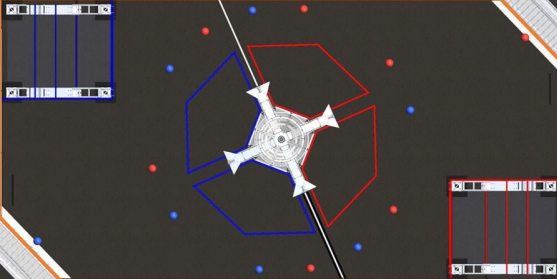
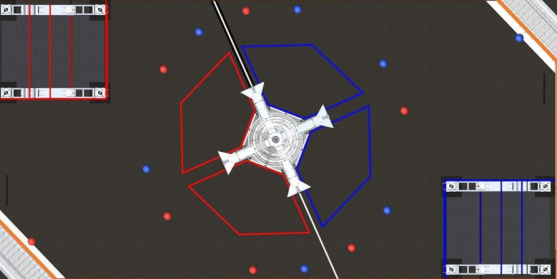
TurretFF WIP

diff --git a/src/main/java/frc/robot/subsystems/Vision.java b/src/main/java/frc/robot/subsystems/Vision.java
@@ -8,6 +8,7 @@ import static frc.robot.Constants.Vision.*;
 
 import edu.wpi.first.math.geometry.Pose2d;
 import edu.wpi.first.math.geometry.Rotation2d;
+import edu.wpi.first.math.geometry.Translation2d;
 import edu.wpi.first.math.util.Units;
 import edu.wpi.first.networktables.NetworkTable;
 import edu.wpi.first.networktables.NetworkTableInstance;
@@ -17,7 +18,6 @@ import edu.wpi.first.wpilibj.Timer;
 import edu.wpi.first.wpilibj.smartdashboard.SmartDashboard;
 import edu.wpi.first.wpilibj.smartdashboard.SmartDashboardTab;
 import edu.wpi.first.wpilibj2.command.SubsystemBase;
-import frc.robot.Constants;
 import frc.robot.utils.VisionData;
 
 public class Vision extends SubsystemBase {
@@ -134,17 +134,30 @@ public class Vision extends SubsystemBase {
         * getGoalTargetDirectDistance();
   }
 
+  public Pose2d getHubPose() {
+    Pose2d hubPose = HUB_POSE;
+    Rotation2d rotation =
+        new Rotation2d(m_controls.getAllianceColorBoolean() ? Units.degreesToRadians(180) : 0);
+    return new Pose2d(hubPose.getTranslation(), rotation);
+  }
+
   public Pose2d getPoseFromHub() {
-    double theta = m_drivetrain.getHeadingRotation2d()
+    double theta =
+        m_drivetrain
+            .getHeadingRotation2d()
             .plus(m_turret.getTurretRotation2d())
-            .minus(getGoalTargetXRotation2d()).getRadians();
+            .minus(getGoalTargetXRotation2d())
+            .getRadians();
 
-//    Pose2d hubPose = HUB_POSE ? m_controls.getAllianceColor()
+    double x = (getGoalTargetHorizontalDistance() * Math.cos(theta));
+    double y = (getGoalTargetHorizontalDistance() * Math.sin(theta));
 
-    double x = (getGoalTargetHorizontalDistance() * Math.cos(theta)) + HUB_POSE.getX();
-    double y = (getGoalTargetHorizontalDistance() * Math.sin(theta)) + HUB_POSE.getY();
+    Translation2d robotPose =
+        new Translation2d(x, y)
+            .rotateBy(getHubPose().getRotation())
+            .plus(getHubPose().getTranslation());
 
-    return new Pose2d(x, y, m_drivetrain.getHeadingRotation2d());
+    return new Pose2d(robotPose, m_drivetrain.getHeadingRotation2d());
   }
 
   public double getDetectionTimestamp() {
@@ -250,9 +263,9 @@ public class Vision extends SubsystemBase {
 
   public VisionData getTimestampedData(double timestamp) {
     int bufferLength = bufferIdx > dataBuffer.length ? dataBuffer.length : bufferIdx;
-    for(int i = bufferLength ; i > -1; i--) {
+    for (int i = bufferLength; i > -1; i--) {
       VisionData data = dataBuffer[i];
-      if(data.timestamp < timestamp) {
+      if (data.timestamp < timestamp) {
         return data;
       }
     }
@@ -260,11 +273,15 @@ public class Vision extends SubsystemBase {
   }
 
   private void updateDataQueue() {
-    VisionData item = new VisionData(getDetectionTimestamp(),
-            getGoalTargetXAngle(), getGoalTargetYAngle(), m_drivetrain.getRobotPoseMeters());
+    VisionData item =
+        new VisionData(
+            getDetectionTimestamp(),
+            getGoalTargetXAngle(),
+            getGoalTargetYAngle(),
+            m_drivetrain.getRobotPoseMeters());
 
-    if(bufferIdx > dataBuffer.length - 1) {
-      System.arraycopy(dataBuffer, 0 , dataBuffer, 1, dataBuffer.length - 1);
+    if (bufferIdx > dataBuffer.length - 1) {
+      System.arraycopy(dataBuffer, 0, dataBuffer, 1, dataBuffer.length - 1);
       bufferIdx = dataBuffer.length - 1;
     }
     dataBuffer[bufferIdx] = item;
@@ -272,34 +289,55 @@ public class Vision extends SubsystemBase {
     bufferIdx++;
   }
 
-  private void updateVisionPose(){
-    if(getGoalValidTarget()) {
-      m_drivetrain.getOdometry().addVisionMeasurement(getPoseFromHub(),
+  private void updateVisionPose() {
+    if (getGoalValidTarget()) {
+      m_drivetrain
+          .getOdometry()
+          .addVisionMeasurement(
+              getPoseFromHub(),
               Timer.getFPGATimestamp() - 0.267); // Vision camera has ~ 2.67 ms of latency
     }
+  }
+
+  private void updateTurretArbitraryFF() {
+    double angle =
+        Math.sin(
+            m_turret.getTurretRotation2d().minus(m_drivetrain.getHeadingRotation2d()).getRadians());
+    double robotVelocity =
+        (m_drivetrain.getSpeedsMetersPerSecond().leftMetersPerSecond
+                + m_drivetrain.getSpeedsMetersPerSecond().rightMetersPerSecond)
+            / 2.0;
+    double angularVelocity = 0;
+    if(getGoalValidTarget())
+      angularVelocity = angle * robotVelocity / getGoalTargetHorizontalDistance();
+    double tangentalVelocity = Units.degreesToRadians(m_drivetrain.getHeadingRateDegrees());
+    double ff = (angularVelocity + tangentalVelocity) * 0.006;
+    SmartDashboardTab.putNumber("Vision", "Turret FF", ff);
+    m_turret.setArbitraryFF(ff);
   }
 
   /** Sends values to SmartDashboard */
   private void updateSmartDashboard() {
     SmartDashboard.putBoolean("Has Goal Target", getGoalValidTarget());
     SmartDashboard.putNumber("Goal Angle", getGoalTargetXAngle());
-    SmartDashboard.putNumber("Goal Direct Distance", getGoalTargetDirectDistance());
     SmartDashboard.putNumber("Goal Horizontal Distance", getGoalTargetHorizontalDistance());
 
     SmartDashboard.putBoolean("Has Intake Target", getIntakeTargetsValid() > 0);
     SmartDashboard.putNumber("Intake Angle", getIntakeTargetAngle(0));
 
-    SmartDashboardTab.putNumber("Vision","Hub Horizontal Distance", getGoalTargetHorizontalDistance());
-    SmartDashboardTab.putNumber("Vision","Hub X Angle", getGoalTargetXAngle());
-    SmartDashboardTab.putNumber("Vision","Hub Y Angle", getGoalTargetYAngle());
+    SmartDashboardTab.putNumber(
+        "Vision", "Hub Horizontal Distance", getGoalTargetHorizontalDistance());
+    SmartDashboardTab.putNumber("Vision", "Hub X Angle", getGoalTargetXAngle());
+    SmartDashboardTab.putNumber("Vision", "Hub Y Angle", getGoalTargetYAngle());
   }
 
   @Override
   public void periodic() {
     // This method will be called once per scheduler run
     updateSmartDashboard();
-//    updateDataQueue();
+    //    updateDataQueue();
     updateVisionPose();
+    updateTurretArbitraryFF();
   }
 
   @Override

diff --git a/src/main/java/frc/robot/subsystems/DriveTrain.java b/src/main/java/frc/robot/subsystems/DriveTrain.java
@@ -20,7 +20,6 @@ import edu.wpi.first.math.estimator.DifferentialDrivePoseEstimator;
 import edu.wpi.first.math.geometry.Pose2d;
 import edu.wpi.first.math.geometry.Rotation2d;
 import edu.wpi.first.math.kinematics.DifferentialDriveKinematics;
-import edu.wpi.first.math.kinematics.DifferentialDriveOdometry;
 import edu.wpi.first.math.kinematics.DifferentialDriveWheelSpeeds;
 import edu.wpi.first.math.util.Units;
 import edu.wpi.first.wpilibj.RobotBase;
@@ -89,10 +88,22 @@ public class DriveTrain extends SubsystemBase {
     // navX.reset();
     pigeon.setYaw(0);
 
-    odometry = new DifferentialDrivePoseEstimator(Rotation2d.fromDegrees(getHeadingDegrees()), new Pose2d(),
-            new MatBuilder<>(Nat.N5(), Nat.N1()).fill(0.02, 0.02, 0.01, 0.02, 0.02), // State measurement standard deviations. X, Y, theta.
-            new MatBuilder<>(Nat.N3(), Nat.N1()).fill(0.02, 0.02, 0.01), // Local measurement standard deviations. Left encoder, right encoder, gyro.
-            new MatBuilder<>(Nat.N3(), Nat.N1()).fill(0.1, 0.1, 0.01)); // Global measurement standard deviations. X, Y, and theta.
+    odometry =
+        new DifferentialDrivePoseEstimator(
+            Rotation2d.fromDegrees(getHeadingDegrees()),
+            new Pose2d(),
+            new MatBuilder<>(Nat.N5(), Nat.N1())
+                .fill(
+                    0.02, 0.02, 0.01, 0.02,
+                    0.02), // State measurement standard deviations. X, Y, theta.
+            new MatBuilder<>(Nat.N3(), Nat.N1())
+                .fill(
+                    0.02, 0.02,
+                    0.01), // Local measurement standard deviations. Left encoder, right encoder,
+            // gyro.
+            new MatBuilder<>(Nat.N3(), Nat.N1())
+                .fill(
+                    0.008, 0.008, 0.01)); // Global measurement standard deviations. X, Y, and theta.
 
     if (RobotBase.isSimulation()) {
       m_drivetrainSimulator =
@@ -566,7 +577,8 @@ public class DriveTrain extends SubsystemBase {
   @Override
   public void periodic() {
     // This method will be called once per scheduler run
-    SmartDashboardTab.putNumber("DriveTrain", "WheelDistance", odometry.getEstimatedPosition().getX());
+    SmartDashboardTab.putNumber(
+        "DriveTrain", "WheelDistance", odometry.getEstimatedPosition().getX());
     odometry.update(
         Rotation2d.fromDegrees(getHeadingDegrees()),
         getSpeedsMetersPerSecond(),

diff --git a/src/main/java/frc/robot/subsystems/Turret.java b/src/main/java/frc/robot/subsystems/Turret.java
@@ -15,7 +15,6 @@ import edu.wpi.first.math.geometry.Rotation2d;
 import edu.wpi.first.math.util.Units;
 import edu.wpi.first.wpilibj.DigitalInput;
 import edu.wpi.first.wpilibj.RobotBase;
-import edu.wpi.first.wpilibj.smartdashboard.SmartDashboard;
 import edu.wpi.first.wpilibj.smartdashboard.SmartDashboardTab;
 import edu.wpi.first.wpilibj2.command.SubsystemBase;
 import frc.robot.Constants;
@@ -31,6 +30,8 @@ public class Turret extends SubsystemBase {
 
   private Constants.CONTROL_MODE controlMode = CONTROL_MODE.CLOSEDLOOP;
   private boolean usePoseEstimation = true;
+
+  private double arbitraryFF;
 
   private boolean initialHome;
   private boolean turretHomeSensorLatch = false;
@@ -58,16 +59,13 @@ public class Turret extends SubsystemBase {
   private void updateClosedLoopPosition() {
     double setpoint = Math.min(Math.max(turretSetpointDegrees, minAngle), maxAngle);
 
-    SmartDashboard.putNumber("Turret Setpoint Test", setpoint);
-
-    //    double ff = -m_driveTrain.getHeadingRateDegrees() * 0.0001;
-    double ff = 0;
+    SmartDashboardTab.putNumber("Turret", "Setpoint Test", setpoint);
 
     turretMotor.set(
         ControlMode.MotionMagic,
         degreesToEncoderUnits(setpoint) * gearRatio,
         DemandType.ArbitraryFeedForward,
-        ff);
+        getArbitraryFF());
   }
 
   public void resetEncoder() {
@@ -96,7 +94,9 @@ public class Turret extends SubsystemBase {
   }
 
   public Pose2d getPose() {
-    return new Pose2d(m_driveTrain.getRobotPoseMeters().getTranslation(), m_driveTrain.getRobotPoseMeters().getRotation().plus(getTurretRotation2d()));
+    return new Pose2d(
+        m_driveTrain.getRobotPoseMeters().getTranslation(),
+        m_driveTrain.getRobotPoseMeters().getRotation().plus(getTurretRotation2d()));
   }
 
   /** double returns encoder units of turret into degrees */
@@ -183,6 +183,14 @@ public class Turret extends SubsystemBase {
   // checks if the turret is pointing within the tolerance of the target
   public boolean onTarget() {
     return Math.abs(getTurretAngleDegrees() - getTurretSetpointDegrees()) < kErrorBand;
+  }
+
+  public double getArbitraryFF() {
+    return arbitraryFF;
+  }
+
+  public void setArbitraryFF(double arbitraryFF) {
+    this.arbitraryFF = arbitraryFF;
   }
 
   private void updateShuffleboard() {

diff --git a/src/main/java/frc/robot/commands/turret/SetTurretSetpointFieldAbsolute.java b/src/main/java/frc/robot/commands/turret/SetTurretSetpointFieldAbsolute.java
@@ -8,6 +8,7 @@
 package frc.robot.commands.turret;
 
 import edu.wpi.first.math.geometry.Rotation2d;
+import edu.wpi.first.math.geometry.Translation2d;
 import edu.wpi.first.math.util.Units;
 import edu.wpi.first.wpilibj.GenericHID;
 import edu.wpi.first.wpilibj.XboxController;
@@ -85,13 +86,20 @@ public class SetTurretSetpointFieldAbsolute extends CommandBase {
         }
         // if vision has a target and the joystick has not moved, set visionsetpoint to true and run
         // the if statements below
-        else if(m_turret.usePoseEstimation()) {
-          double targetAngleRadians = Math.atan2(Constants.Vision.HUB_POSE.getY() - m_driveTrain.getRobotPoseMeters().getY(),
-                                                  Constants.Vision.HUB_POSE.getX() - m_driveTrain.getRobotPoseMeters().getX());
-          setpoint = Math.toDegrees(targetAngleRadians);
+        else if (m_turret.usePoseEstimation()) {
+          Translation2d goalToRobot =
+              m_vision
+                  .getHubPose()
+                  .getTranslation()
+                  .minus(m_driveTrain.getRobotPoseMeters().getTranslation());
+          Rotation2d targetAngleRotation =
+              new Rotation2d(Math.atan2(goalToRobot.getY(), goalToRobot.getX()));
+          targetAngleRotation = targetAngleRotation.minus(m_driveTrain.getHeadingRotation2d());
 
-        }
-        else if (m_vision.getGoalValidTarget()) {
+          setpoint = targetAngleRotation.getDegrees();
+
+          m_turret.setAbsoluteSetpointDegrees(setpoint);
+        } else if (m_vision.getGoalValidTarget() && !m_turret.usePoseEstimation()) {
           usingVisionSetpoint = true;
           m_vision.setGoalCameraLedState(true);
           currentVisionSetpoint = m_vision.getGoalTargetXRotation2d();
@@ -107,7 +115,7 @@ public class SetTurretSetpointFieldAbsolute extends CommandBase {
 
         currentTurretSetpoint = Rotation2d.fromDegrees(m_turret.getTurretAngleDegrees());
 
-        if (!joystickMoved) {
+        if (!joystickMoved && !m_turret.usePoseEstimation()) {
           setpoint =
               currentVisionSetpoint
                   .plus(currentTurretSetpoint)

diff --git a/src/main/java/frc/robot/Constants.java b/src/main/java/frc/robot/Constants.java
@@ -239,8 +239,8 @@ public final class Constants {
     public static final double kErrorBand = 50;
     public static final double kI_Zone = 900;
     public static final double kMaxIAccum = 1000;
-    public static final double kCruiseVelocity = 5000;
-    public static final double kMotionAcceleration = 60000;
+    public static final double kCruiseVelocity = 20000;
+    public static final double kMotionAcceleration = 30000;
 
     public static final double kS = 0.83016; // 0.81464;
     public static final double kV = 0.012184; // 0.16822;
@@ -271,7 +271,8 @@ public final class Constants {
     public static double UPPER_HUB_HEIGHT_METERS = 1.0;
     public static double LOWER_HUB_HEIGHT_METERS = 1.0;
 
-    public static Pose2d HUB_POSE = new Pose2d(Units.feetToMeters(27), Units.feetToMeters(13.5), new Rotation2d());
+    public static Pose2d HUB_POSE =
+        new Pose2d(Units.feetToMeters(27), Units.feetToMeters(13.5), new Rotation2d());
 
     public static double MIN_SHOOTING_DISTANCE = Units.feetToMeters(5);
     public static double MAX_SHOOTING_DISTANCE = Units.feetToMeters(20);

diff --git a/src/main/java/frc/robot/utils/VisionData.java b/src/main/java/frc/robot/utils/VisionData.java
@@ -1,17 +1,18 @@
 package frc.robot.utils;
 
 import edu.wpi.first.math.geometry.Pose2d;
-public class VisionData {
-    public double timestamp;
-    public double tx;
-    public double ty;
-    public Pose2d robotPose;
-    public Pose2d targetPose;
 
-    public VisionData(double timestamp, double tx, double ty, Pose2d robotPose) {
-        this.timestamp = timestamp;
-        this.tx = tx;
-        this.ty = ty;
-        this.robotPose = robotPose;
-    }
+public class VisionData {
+  public double timestamp;
+  public double tx;
+  public double ty;
+  public Pose2d robotPose;
+  public Pose2d targetPose;
+
+  public VisionData(double timestamp, double tx, double ty, Pose2d robotPose) {
+    this.timestamp = timestamp;
+    this.tx = tx;
+    this.ty = ty;
+    this.robotPose = robotPose;
+  }
 }

diff --git a/src/main/java/frc/robot/simulation/FieldSim.java b/src/main/java/frc/robot/simulation/FieldSim.java
@@ -5,7 +5,6 @@ import edu.wpi.first.math.geometry.Rotation2d;
 import edu.wpi.first.wpilibj.RobotController;
 import edu.wpi.first.wpilibj.smartdashboard.Field2d;
 import edu.wpi.first.wpilibj.smartdashboard.SmartDashboard;
-import edu.wpi.first.wpilibj.smartdashboard.SmartDashboardTab;
 import frc.robot.Constants;
 import frc.robot.Constants.Sim.BallColor;
 import frc.robot.Constants.Sim.BallState;
